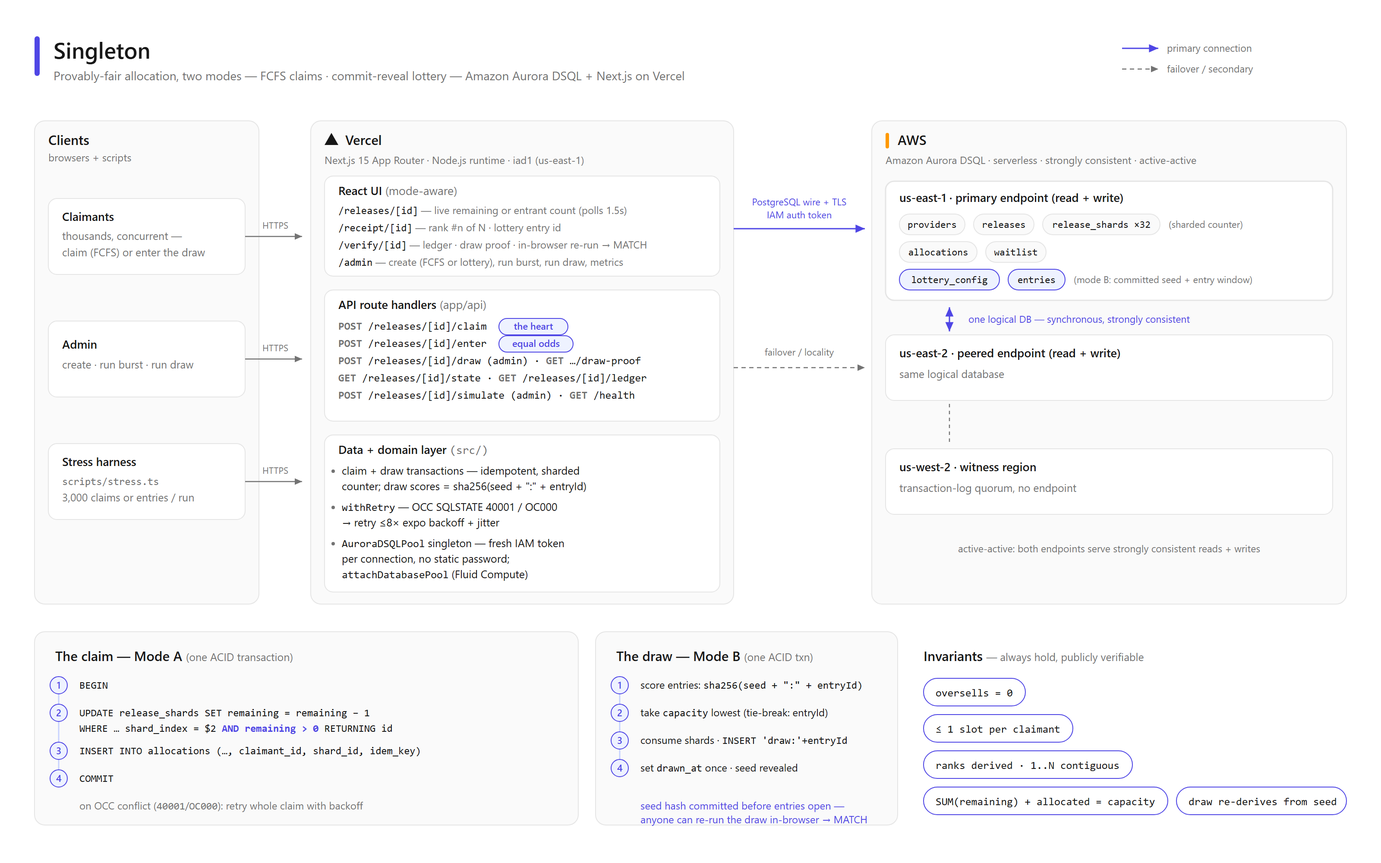
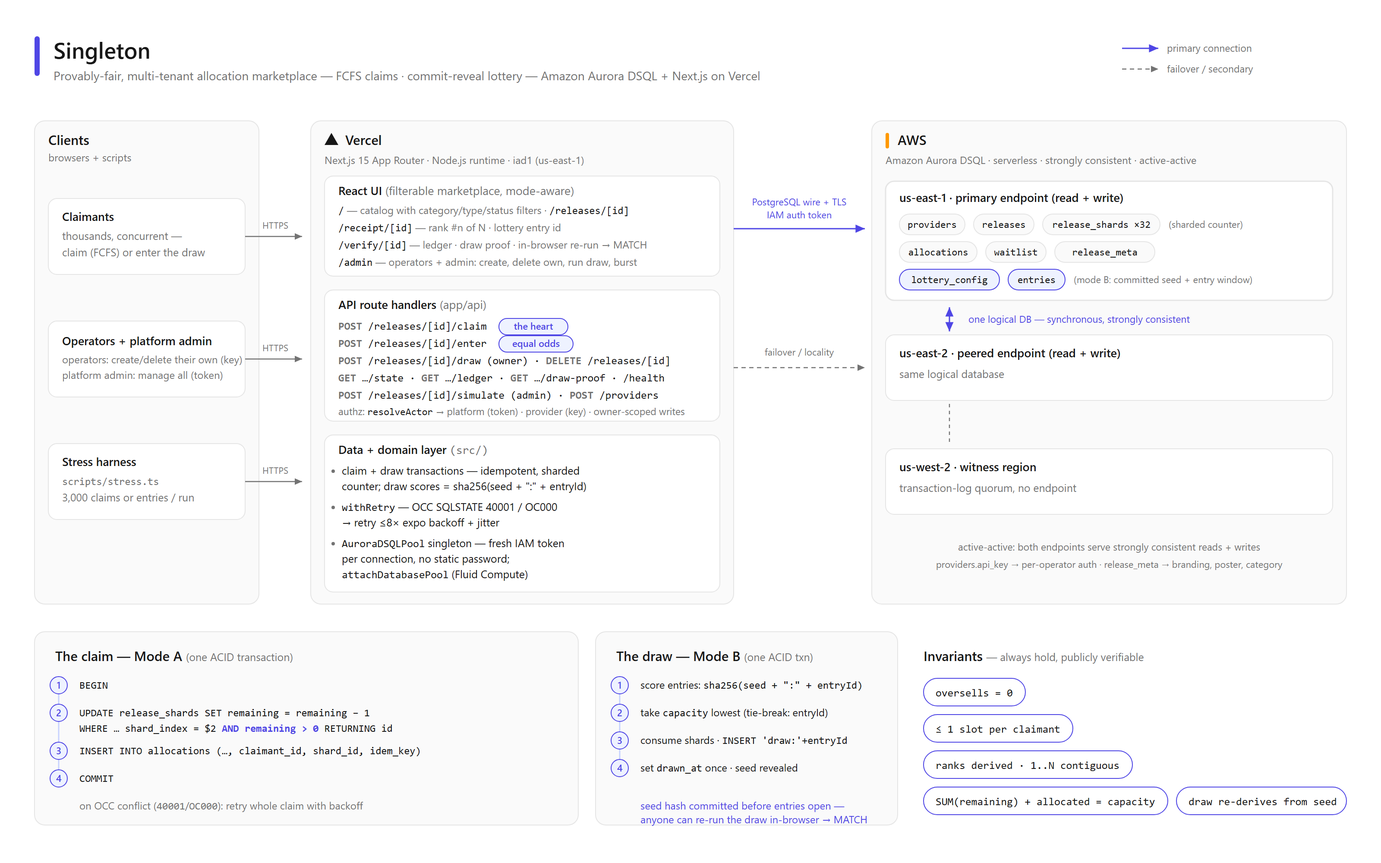
docs: update INTEL, submission, architecture diagram for multi-tenancy + marketplace
Refreshes the documentation to match the current product: a new INTEL chapter 15 (per-tenant ownership, the category marketplace, immersive release pages, 54-event showcase); updated API reference (two-role authz, DELETE + providers endpoints), data model (migrations 0005-0007, release_meta, providers.api_key), deployment (live Vercel URL, env, fragment magic link), and a third adversarial-review entry (token-in-URL, burst DoS). Architecture SVG/PNG regenerated to show operators vs platform admin, the filterable marketplace UI, the new endpoints, and release_meta. SUBMISSION checklist marks the Vercel link + diagram done and updates the video script; README migration list extended.

diff --git a/docs/INTEL.md b/docs/INTEL.md
@@ -27,7 +27,8 @@
 12. [Security, privacy, and the adversarial reviews](#12-security-privacy-and-the-adversarial-reviews)
 13. [Live verification results](#13-live-verification-results)
 14. [Build journey and decision log](#14-build-journey-and-decision-log)
-15. [Glossary](#15-glossary)
+15. [Multi-tenancy, the marketplace, and operator UX](#15-multi-tenancy-the-marketplace-and-operator-ux)
+16. [Glossary](#16-glossary)
 
 ---
 
@@ -41,7 +42,7 @@ Singleton allocates a **fixed batch of scarce slots** (clinic appointments, tick
 
 The defensible insight: **Amazon Aurora DSQL is strongly consistent, horizontally scalable, active-active multi-region, and serverless at once** — so each guarantee reduces to one ordinary ACID transaction (a sharded conditional decrement with optimistic-concurrency retry, or a single commit-reveal draw transaction). There is no Redis lock, no queue, no eventual-consistency reconciliation job, and no chain.
 
-None of this is asserted on faith. The repository carries a stress harness that fired **3,000 concurrent claims at a 200-slot release on the live cluster and proved zero oversells with contiguous ranks 1..200**, and **3,000 concurrent lottery entries whose 200 drawn winners re-derive byte-for-byte from the revealed seed**. Two multi-agent adversarial review passes hunted the concurrency- and secrecy-critical code and the ten real bugs they found are fixed and documented (§12).
+None of this is asserted on faith. The repository carries a stress harness that fired **10,000 concurrent claims at a 200-slot release on the live cluster and proved zero oversells with contiguous ranks 1..200**, and **5,000 concurrent lottery entries whose 200 drawn winners re-derive byte-for-byte from the revealed seed**. Three multi-agent adversarial review passes hunted the concurrency-, secrecy-, and authorization-critical code and the twelve real bugs they found are fixed and documented (§12). The app is multi-tenant (per-operator ownership, §15) and live on Vercel at **`https://singleton-six.vercel.app`**.
 
 ## 2. The problem and the product
 
@@ -96,6 +97,7 @@ src/domain/           # claim (Mode A heart), draw (Mode B heart), lottery hashi
 src/components/       # intake clients, lottery proof, admin, site chrome, v0/ surfaces
 src/lib/              # admin auth, browser sha256, cn()
 db/migrations/        # 0001 init · 0002 indexes · 0003 lottery · 0004 lottery indexes
+                      #   · 0005 release_meta · 0006 provider_keys · 0007 release_category
 scripts/              # migrate · seed · stress (both modes) · render-architecture · provision/*
 tests/                # unit · integration (live DSQL) · e2e (Playwright)
 docs/                 # this document, architecture diagram, submission checklist, v0 evidence
@@ -127,24 +129,25 @@ Two corrections the research pass made to the original build spec are worth nami
 
 ## 5. Data model — every table, every index, every constraint
 
-The entire schema is four SQL files totalling under 120 lines, applied by a custom runner that exists because Aurora DSQL's DDL rules make off-the-shelf migration tools (which wrap files in multi-statement transactions) unusable. Six tables serve FCFS mode plus bookkeeping; two more, added purely additively, serve the lottery. Every constraint that DSQL *can* enforce is pushed into the database; everything it cannot (foreign keys, sequences, triggers) is replaced by an explicit application-layer mechanism described below.
+The schema is seven additive SQL files totalling well under 200 lines, applied by a custom runner that exists because Aurora DSQL's DDL rules make off-the-shelf migration tools (which wrap files in multi-statement transactions) unusable. Six tables serve FCFS mode plus bookkeeping; two more serve the lottery; the later migrations add branding/category to a side table and an operator key to `providers` — **all strictly additive, never altering an existing column's meaning** (see §15 for the multi-tenancy and marketplace features they enable). Every constraint that DSQL *can* enforce is pushed into the database; everything it cannot (foreign keys, sequences, triggers) is replaced by an explicit application-layer mechanism described below.
 
 ### 5.1 Table inventory
 
 | Table | Created in | Role | Key invariant it anchors |
 |---|---|---|---|
 | `schema_migrations` | bootstrapped by [scripts/migrate.ts](../scripts/migrate.ts) | which migration files have run | idempotent re-runs |
-| `providers` | [0001](../db/migrations/0001_init.sql) | who publishes releases | — |
+| `providers` | [0001](../db/migrations/0001_init.sql) (+ `api_key` in [0006](../db/migrations/0006_provider_keys.sql)) | operators/tenants; `api_key` authenticates them | unique `api_key` (operator identity) |
 | `releases` | [0001](../db/migrations/0001_init.sql) | a drop: capacity, window, status | `capacity > 0`, status state machine |
 | `release_shards` | [0001](../db/migrations/0001_init.sql) | capacity split into N counter rows | `SUM(remaining)` = remaining capacity; `remaining >= 0` |
 | `allocations` | [0001](../db/migrations/0001_init.sql) | one row per granted slot | no oversell, one slot per claimant, retry safety |
 | `waitlist` | [0001](../db/migrations/0001_init.sql) | claimants who arrived after sell-out | one entry per claimant |
 | `lottery_config` | [0003](../db/migrations/0003_lottery.sql) | per-release commit-reveal state | seed committed before entries open; draw runs once |
 | `entries` | [0003](../db/migrations/0003_lottery.sql) | one row per lottery entrant | one entry per claimant |
+| `release_meta` | [0005](../db/migrations/0005_release_meta.sql) (+ `category` in [0007](../db/migrations/0007_release_category.sql)) | optional branding: poster, description, venue, event date, category | 1:1 with a release (app-enforced) |
 
 ### 5.2 Core tables
 
-**`providers`** — `id uuid PK`, `name`, `created_at`. Deliberately minimal: it exists so `releases.provider_id` has something real to point at and the demo seed has an owner. No auth model hangs off it.
+**`providers`** — `id uuid PK`, `name`, `created_at`, and (since [0006](../db/migrations/0006_provider_keys.sql)) a nullable, unique **`api_key`**. Originally a minimal owner record; the key turned it into the tenant identity for the multi-tenancy model (§15). Existing/seed providers have a `NULL` key (NULLs are distinct in a Postgres unique index, so many coexist) and are platform-owned demo data; an operator who self-registers through `/api/providers` gets a real `op_…` key that authenticates them as a tenant.
 
 **`releases`** — the central entity:
 
@@ -522,32 +525,34 @@ Error envelope conventions: validation failures are `400 { error, issues? }`; st
 | Method | Path | Auth | Purpose |
 |---|---|---|---|
 | GET | `/api/health` | public | DB liveness probe (`SELECT 1`, `now()`), multi-region flag |
-| GET | `/api/releases` | public | List releases with live state |
-| POST | `/api/releases` | admin | Create a release (FCFS, or lottery if `lottery` present) |
+| GET | `/api/releases` | public | List releases with live state (incl. `providerId`, category) |
+| POST | `/api/releases` | platform / operator | Create a release (owned by the operator, or the named provider for platform) |
+| DELETE | `/api/releases/[id]` | platform / owner | Delete a release + all child rows (batched cascade) ([route](../app/api/releases/%5Bid%5D/route.ts)) |
 | POST | `/api/releases/[id]/claim` | public | Mode A: claim a slot (idempotent) |
 | GET | `/api/releases/[id]/state` | public | Live counts + mode + lottery commitment |
 | GET | `/api/releases/[id]/ledger` | public | Anonymized allocation ledger with derived ranks |
-| POST | `/api/releases/[id]/simulate` | admin | In-process concurrent claim burst + invariant audit |
+| POST | `/api/releases/[id]/simulate` | platform | In-process concurrent claim burst + invariant audit (platform-only; see §12) |
 | POST | `/api/releases/[id]/enter` | public | Mode B: enter the draw window (idempotent) |
-| POST | `/api/releases/[id]/draw` | admin | Mode B: run the commit-reveal draw (idempotent) |
+| POST | `/api/releases/[id]/draw` | platform / owner | Mode B: run the commit-reveal draw (idempotent) |
 | GET | `/api/releases/[id]/draw-proof` | public | Verifiable proof payload; seed only post-draw |
 | GET | `/api/entries/[entryId]` | public* | Mode B: check one's own result by entry id |
 | GET | `/api/allocations/[id]` | public* | Receipt payload: release, capacity, derived rank, lottery entry id if drawn ([route](../app/api/allocations/%5Bid%5D/route.ts)) |
+| POST | `/api/providers` | public | Self-serve operator registration; returns the api key **once** ([route](../app/api/providers/route.ts)) |
+| POST | `/api/providers/session` | operator | Resolve an operator key to its provider identity (cross-device sign-in) ([route](../app/api/providers/session/route.ts)) |
 
 \* `entryId` / allocation `id` act as bearer capabilities — each was returned only to its owner and is never published alongside an identity (the public ledger carries allocation ids only with timestamps and ranks, no claimants).
 
-### Admin authentication
+### Authentication and authorization (two roles)
 
-Admin routes (`POST /api/releases`, `simulate`, `draw`) call `isAdminRequest` from [src/lib/admin.ts](../src/lib/admin.ts), which reads the `x-admin-token` header and compares it against `ADMIN_TOKEN` in constant time:
+Singleton is multi-tenant (§15). Every mutating request is resolved to an **actor** by `resolveActor` in [src/lib/admin.ts](../src/lib/admin.ts):
 
-```ts
-const a = Buffer.from(token);
-const b = Buffer.from(expected);
-if (a.length !== b.length) return false;
-return timingSafeEqual(a, b);
-```
+- **platform** — the request carries the master `ADMIN_TOKEN` in the `x-admin-token` header (constant-time compared via `timingSafeEqual`, with the standard length-leak trade-off). A super-admin over every release; this is what the hackathon judges use.
+- **provider** — the request carries an operator key in the `x-provider-key` header that matches a `providers.api_key` row (looked up via the unique index, then constant-time re-compared). Scoped to the releases that operator owns.
+- **none** — neither matches → `401 { "error": "unauthorized" }` before any body parsing.
 
-The length check is required — `timingSafeEqual` throws on unequal lengths — and leaking the token's *length* is an accepted, standard trade-off. The token itself lives in the environment (`ADMIN_TOKEN`), validated lazily by the memoized Zod schema in [src/env.ts](../src/env.ts) (`z.string().min(1)`); lazy validation means `next build` succeeds on a machine without secrets, while the first real request fails fast with a readable error. A missing or wrong token yields `401 { "error": "unauthorized" }` before any body parsing.
+Platform is checked first and short-circuits, so the master token never depends on a database lookup. Release-scoped mutations (delete, draw, burst) go through `authorizeReleaseMutation(req, releaseId)`, which resolves the actor, loads the release (404 if absent), and enforces ownership: **platform may act on any release; a provider only on one it owns (else 403)**. The burst simulator is deliberately restricted to platform only — it is a stress/demo amplifier, and leaving it open to self-registered operator keys would be a write-amplification vector on the metered cluster (§12).
+
+Secrets are validated lazily by the memoized Zod schema in [src/env.ts](../src/env.ts), so `next build` succeeds without them while the first real request fails fast. The platform magic link delivers the token in the URL **fragment** (`/admin#token=…`), which browsers never send to the server, keeping it out of access logs and `Referer` headers (§12).
 
 ### GET /api/health
 
@@ -733,7 +738,8 @@ export default async function ReleasePage({ params }: { params: Promise<{ id: st
 
 | Route | File | Server renders | Client takes over |
 |---|---|---|---|
-| `/` | [app/page.tsx](../app/page.tsx) | Hero, principles, live-release grid (up to 12 release states fetched in parallel; DB errors degrade to a setup hint, not a crash) | Nothing — fully static per request |
+| `/` | [app/page.tsx](../app/page.tsx) | Hero, principles, and the release set (up to 100, fetched in two batched round trips; DB errors degrade to a setup hint, not a crash) | `ReleasesBrowser` — the marketplace filter rail + sort + grid, all client-side over the fetched set (§15.2) |
+| `/admin` (operator) | [admin-auth.tsx](../src/components/admin/admin-auth.tsx) | — | Operator self-registration + key, or platform/operator sign-in (`AuthGate`); credential drives every admin request (§15.1) |
 | `/releases/[id]` | [app/releases/[id]/page.tsx](<../app/releases/[id]/page.tsx>) | Card shell, title, capacity copy; branches on `state.mode` | `IntakeClient` (FCFS) or `LotteryIntakeClient` (lottery), seeded with the server-fetched state as `initial` |
 | `/receipt/[allocationId]` | [app/receipt/[allocationId]/page.tsx](<../app/receipt/[allocationId]/page.tsx>) | Entire receipt: rank, capacity, timestamp via `getAllocationWithRank`; an extra "selected from the window" panel when `lotteryEntryId` is present | Nothing — a receipt is a fact, not a live view |
 | `/verify/[releaseId]` | [app/verify/[releaseId]/page.tsx](<../app/verify/[releaseId]/page.tsx>) | Ledger table, capacity-check banner, mode detection | `LotteryProof` (lottery releases only) — verification must run in the visitor's browser to mean anything |
@@ -997,6 +1003,8 @@ The entire deployment configuration is small enough to reason about line by line
 
 Version pins follow the same philosophy as the connection design: [package.json](../package.json) locks Next.js at `15.5.19` (spec-locked even though 16 is current), the pre-1.0 DSQL connector at exactly `0.1.9`, and the two AWS SDK packages (`@aws-sdk/dsql-signer`, `@aws-sdk/credential-providers`) at matching `3.1064.0` — in a system whose core claim is determinism, an unreviewed minor bump in the auth path is not an acceptable variable.
 
+**Live deployment.** The app runs on Vercel at **`https://singleton-six.vercel.app`** — use that clean production alias, not a `*-<hash>.vercel.app` deployment URL, since per-deployment URLs sit behind Vercel's Deployment Protection and return 401 to anyone but the owner. Six environment variables are set in the Vercel project: `AWS_REGION`, `DSQL_CLUSTER_ENDPOINT`, `CLUSTER_USER`, `ADMIN_TOKEN`, and — critically — `AWS_ACCESS_KEY_ID` / `AWS_SECRET_ACCESS_KEY`. Those last two are intentionally absent from local `.env.local` (local dev resolves credentials from the `aws configure` shared profile), but Vercel has no profile, so the static IAM keys for the `singleton-dsq` user must be set explicitly or every DB call fails IAM auth. Local and production share the one DSQL cluster, so `npm run migrate` from a laptop also migrates production. Push-to-`main` auto-deploys; the additive migrations (0005–0007) were applied to the shared cluster ahead of the code that reads them, so each deploy lands on a schema that already has its columns.
+
 ---
 
 ## 11. Testing, verification, and operations
@@ -1191,14 +1199,14 @@ Script-level knobs not in `.env.example`: `DB_POOL_MAX` (pool size — defaulted
 ### 12.1 The standing rules
 
 - **No database password exists.** All DSQL access is IAM-authenticated: short-lived signed tokens, minted per connection by the official connector, scoped by a least-privilege policy ([scripts/provision/iam-policy.json](../scripts/provision/iam-policy.json)) that can touch DSQL and nothing else. Leaked app credentials cannot reach any other AWS service.
-- **Admin actions** (create release, simulate burst, run draw) require the `x-admin-token` header, compared in **constant time** (`timingSafeEqual`, [src/lib/admin.ts](../src/lib/admin.ts)) against `ADMIN_TOKEN`.
+- **Two authenticated roles** (§8, §15): a *platform* super-admin holding `ADMIN_TOKEN` (constant-time compared via `timingSafeEqual`, [src/lib/admin.ts](../src/lib/admin.ts)) and per-tenant *operators* holding a unique `providers.api_key`. Release-scoped mutations (delete, draw, burst) run through `authorizeReleaseMutation`, which enforces that an operator can act only on releases it owns; the burst simulator is platform-only.
 - **The lottery seed is secret until the draw.** Only `seed_hash` is ever serialized pre-draw; the seed column is read by exactly one internal accessor, no log line or error message embeds it, and the draw-proof endpoint nulls it until `drawn_at` is set.
 - **Participant identity never enters public payloads.** Draw proofs and the public ledger identify entries/allocations by opaque UUIDs only; `claimant_id` (often an email) is reachable only by admin-side code paths.
 - **Every write path is idempotent**, so retries — human, client, or network — cannot double-allocate, double-enter, or double-draw.
 
-### 12.2 The ten bugs the adversarial reviews caught
+### 12.2 The twelve bugs the adversarial reviews caught
 
-Twice during the build — after the Mode A core and after Mode B — a multi-agent adversarial review (parallel reviewers per dimension, each finding independently re-verified by a skeptic agent before being accepted) attacked the concurrency- and secrecy-critical code. **All ten confirmed findings were real, and all are fixed:**
+Three times during the build — after the Mode A core, after Mode B, and after the multi-tenancy work — a multi-agent adversarial review (parallel reviewers per dimension, each finding independently re-verified by a skeptic agent before being accepted) attacked the concurrency-, secrecy-, and authorization-critical code. **All twelve confirmed findings were real, and all are fixed.** The first two reviews caught these ten:
 
 | # | Severity | Finding | Fix |
 |---|---|---|---|
@@ -1213,7 +1221,14 @@ Twice during the build — after the Mode A core and after Mode B — a multi-ag
 | 9 | High | Missing rowcount guard on the release-close update inside the draw | throws loudly on mismatch |
 | 10 | High | Post-draw result fetch in the lottery UI stuck permanently after one HTTP error | retries every poll tick ([lottery-intake-client.tsx](../src/components/lottery-intake-client.tsx)) |
 
-The honest meta-lesson: even with the invariants designed in from the start, the gap between "the algorithm is right" and "every path around the algorithm is right" produced ten real defects — and structured adversarial review with mandatory re-verification (several plausible-sounding findings were *rejected* as not-bugs) caught them before any user could.
+A **third adversarial review**, run when the multi-tenancy authorization shipped (§15), confirmed two more — both fixed before that feature was pushed:
+
+| # | Severity | Finding | Fix |
+|---|---|---|---|
+| 11 | High | Master `ADMIN_TOKEN` rode the magic link as a **query parameter** (`/admin?token=…`), so it could land in server/CDN access logs and `Referer` headers before the client-side scrub ran | the token now travels in the URL **fragment** (`/admin#token=…`), which browsers never send to the server, plus a `Referrer-Policy: no-referrer` header on `/admin` ([admin-auth.tsx](../src/components/admin/admin-auth.tsx), [next.config.ts](../next.config.ts)) |
+| 12 | Medium | Open self-serve registration + an owner-runnable burst (up to 2,000×100 claims) was a **write-amplification DoS** vector on the metered cluster | the burst simulator is restricted to the platform role; operators keep create/delete/draw on their own releases ([simulate route](../app/api/releases/%5Bid%5D/simulate/route.ts), [src/lib/admin.ts](../src/lib/admin.ts)) |
+
+The honest meta-lesson: even with the invariants designed in from the start, the gap between "the algorithm is right" and "every path around the algorithm is right" produced twelve real defects across three reviews — and structured adversarial review with mandatory re-verification (several plausible-sounding findings were *rejected* as not-bugs) caught them before any user could.
 
 ### 12.3 Deliberately out of scope
 
@@ -1243,6 +1258,16 @@ Everything below ran against the **live Aurora DSQL cluster** in us-east-1 (no l
 
 **Latency anatomy worth understanding:** a sold-out FCFS claim originally walked all shards blind — ~48 WAN round trips ≈ 12 s from the test machine. The candidate-prefilter optimization (one `SELECT` of non-empty shards; correctness still rests entirely on the conditional `UPDATE`) collapsed that to one round trip. From Vercel `iad1`, every round trip is ~1–2 ms — the same operations run two orders of magnitude faster in production placement. The in-UI burst (admin → Run burst) executes server-side in-region for exactly this reason.
 
+**Later additions — multi-tenancy, marketplace, deployment:**
+
+| Check | Result |
+|---|---|
+| Heavier FCFS stress | **10,000 concurrent claims vs capacity 200** → exactly 200 allocated · 0 oversells · ranks 1..200 contiguous · 0 errors |
+| Heavier lottery stress | **5,000 entries** → 0 duplicates · 200 winners re-derived byte-for-byte |
+| Ownership authorization (HTTP + browser) | operator deletes own → 200; another operator's → **403**; unauthenticated → **401**; platform → any. 4 dedicated integration tests + live HTTP and Playwright matrices |
+| Live deployment | `https://singleton-six.vercel.app` — `/api/health` 200 with `db.ok`; full claim → receipt → ledger exercised from outside the owner's session |
+| Marketplace | 54 curated releases (six per category) with 4K posters — all 54 images verified loading in-browser; every category filters to exactly 6 |
+
 ## 14. Build journey and decision log
 
 The build followed a research-first discipline: before any code, an 11-agent research pass verified every stack assumption against current official AWS/Vercel/Next.js documentation, with the riskiest claims adversarially fact-checked. That pass is why this codebase never hit the classic DSQL landmines (CHECK folklore, token caching, multi-statement migrations).
@@ -1268,9 +1293,34 @@ The build followed a research-first discipline: before any code, an 11-agent res
 - *A `git reset --hard` with uncommitted work destroyed two files mid-history-build* — reconstructed and re-verified, but the lesson (stash or commit first) is now policy.
 - *First cluster in an account needs `iam:CreateServiceLinkedRole`* — scoped to `dsql.amazonaws.com` in the provisioning policy; the error message doesn't tell you that.
 
-**Evidence of work:** the repository history is six `--no-ff` feature merges (foundation → DSQL core → v0 surfaces → lottery → product UI → docs), all dated within the hackathon submission period, with this document and the diagram updates following the same pattern.
+**Evidence of work:** the early history is six `--no-ff` feature merges (foundation → DSQL core → v0 surfaces → lottery → product UI → docs); the later product arc continues in focused commits on `main` — the Counterfoil redesign, em-dash copy sweep, per-tenant ownership (+ adversarial review fixes), the category marketplace and 54-event showcase, immersive release pages, and these doc/diagram updates — all dated within the hackathon submission period.
 
-## 15. Glossary
+## 15. Multi-tenancy, the marketplace, and operator UX
+
+The original build was a single-operator console behind one shared token. Three additive migrations (0005–0007) plus a client rebuild turned it into a multi-tenant marketplace, with **zero change to the Mode A / Mode B allocation paths** — the additive-only discipline from the lottery work held again.
+
+### 15.1 Per-tenant ownership
+
+A *provider* is now a tenant. [0006_provider_keys.sql](../db/migrations/0006_provider_keys.sql) adds a nullable, uniquely-indexed `providers.api_key`; [src/db/providers.ts](../src/db/providers.ts) mints `op_`-prefixed keys (`createProviderWithKey`) and resolves them (`getProviderByKey`, constant-time compared). Two roles result, both handled by `resolveActor` / `authorizeReleaseMutation` in [src/lib/admin.ts](../src/lib/admin.ts) (see §8):
+
+- **Platform** — holds `ADMIN_TOKEN`; super-admin over every release. The hackathon judges use this via the `/admin#token=…` magic link.
+- **Operator** — holds an `api_key`; may create releases (owned by them) and delete or run the draw on **only their own** (403 otherwise). The burst simulator stays platform-only (§12).
+
+The check is server-enforced; the UI's choice to *show* a delete control is convenience only. `createRelease` stamps `provider_id` from the authenticated operator, so a tenant cannot create under another's identity. Cascade delete ([`deleteRelease`](../src/db/releases.ts)) removes a release plus its allocations, waitlist, entries, shards, meta, and lottery config in batches under DSQL's 3,000-row transaction cap.
+
+Operators self-register at `POST /api/providers` (returns the key **once**; the panel offers copy and a CSV download, mirroring a cloud access-key file) and re-authenticate on another device via `POST /api/providers/session`. The admin console ([app/admin/page.tsx](../app/admin/page.tsx), [admin-auth.tsx](../src/components/admin/admin-auth.tsx)) gates on a credential object (`{ kind: "platform" | "provider", … }`) and attaches either `x-admin-token` or `x-provider-key` per request.
+
+### 15.2 The category marketplace
+
+[0007_release_category.sql](../db/migrations/0007_release_category.sql) adds a nullable `release_meta.category` (a slug from the nine-item taxonomy in [src/lib/categories.ts](../src/lib/categories.ts)); the admin create form gains a selector. The landing "Live releases" section is now a marketplace ([src/components/releases-browser.tsx](../src/components/releases-browser.tsx)): a left filter rail (search, category, allocation type, availability, date window, location) plus a sort control (newest, closing soon, most/fewest spots) and a live result count. Filtering is entirely client-side over the full release set (the listing cap rose to 100), so it is instant and adds zero database load. Most filters run on data that already existed (mode, status, venue, dates, title); only category needed the new column.
+
+### 15.3 Immersive release pages and the showcase
+
+A release with a poster now renders it as a vignetted, full-bleed page background behind a translucent glass card (the card's `backdrop-blur` over the photo creates depth; the in-card "Back to all releases" link stays legible over any image). The receipt ledger shows the **full** receipt id (it had been truncated to eight characters) — matching your receipt against the public list is the whole point. A proper logo ([src/components/logo.tsx](../src/components/logo.tsx), favicon [app/icon.svg](../app/icon.svg)) replaced the placeholder mark.
+
+The demo seed ([scripts/seed-showcase.ts](../scripts/seed-showcase.ts), data in [scripts/showcase-events.json](../scripts/showcase-events.json)) is **54 curated releases — six per category** — with modern copy and verified 4K posters, seeded with organic activity through the real domain paths so the marketplace reads as live rather than freshly installed. The posters were curated and image-verified out of band by a nine-way parallel agent pass that fetched, viewed, and trademark-screened each candidate; the seed then re-checks every URL serves `image/*` before writing. Test-data hygiene is automatic: a Playwright global teardown sweeps `E2E …` releases after every run, and the cleanup CLI derives the showcase titles straight from the JSON so a reset stays exhaustive.
+
+## 16. Glossary
 
 | Term | Meaning here |
 |---|---|

diff --git a/docs/SUBMISSION.md b/docs/SUBMISSION.md
@@ -4,9 +4,14 @@
 retail drops; providers pay per release / SaaS seat). Also competes for **Best Technical
 Implementation**.
 
+> **Live:** https://singleton-six.vercel.app
+>
 > Two allocation modes, both provable on Aurora DSQL: **Mode A** (first-come, sharded atomic
 > claims, live no-oversell dashboard) and **Mode B** (windowed lottery with a commit-reveal
 > draw — the verify page re-runs the entire draw in the visitor's browser and shows MATCH).
+> It is a **multi-tenant marketplace**: operators self-register and manage only their own
+> releases (server-enforced ownership), browsable through a category filter rail over a
+> 54-event, six-per-category showcase.
 > Video beat: enter the window → draw → click "Re-run the draw" → MATCH banner.
 
 ## Required items
@@ -16,14 +21,17 @@ Implementation**.
       transaction because DSQL is strongly consistent + active-active + serverless.
 - [ ] **Demo video < 3 min** (YouTube, public). Script beats:
       1. (0:00–0:25) Problem: oversold appointments / crashed ticket drops; who it's for.
-      2. (0:25–1:10) Live flow: intake countdown → claim → receipt "#n of N" → public ledger.
-      3. (1:10–2:10) The proof: admin "Run burst" → **oversells: 0**, ranks 1..N, latency +
-         OCC retries on screen; mention `npm run stress` 3,000 vs 200.
-      4. (2:10–2:45) Why Aurora DSQL: sharded counter + OCC retry diagram beat; (if built)
-         two regions, one consistent database.
-      5. (2:45–3:00) Monetization one-liner + close.
-- [ ] **Published Vercel project link** + **Vercel Team ID** (Team settings → copy ID).
-- [ ] **Architecture diagram** — `docs/architecture.png` (source `docs/architecture.svg`).
+      2. (0:25–0:55) The marketplace: category filter rail; pick a release (4K poster page).
+      3. (0:55–1:30) Live flow: claim → receipt "#n of N" + QR → public ledger (full receipt id).
+      4. (1:30–2:10) The proof: admin "Run burst" → **oversells: 0**, ranks 1..N, OCC retries
+         on screen; mention `npm run stress` **10,000 vs 200, 0 oversells**.
+      5. (2:10–2:35) Multi-tenant B2B: an operator self-registers, creates a release, can delete
+         only their own; lottery "Re-run the draw" → MATCH.
+      6. (2:35–3:00) Why Aurora DSQL (sharded counter + OCC, one ACID transaction) + monetization close.
+- [x] **Published Vercel project link** — https://singleton-six.vercel.app (public, verified).
+- [ ] **Vercel Team ID** — Team settings → General → copy ID (paste into the form).
+- [x] **Architecture diagram** — `docs/architecture.png` (source `docs/architecture.svg`); updated
+      for multi-tenancy + the marketplace.
 - [ ] **Screenshot: storage configuration proving AWS Database usage** — Vercel project
       → Settings → Environment Variables showing `DSQL_CLUSTER_ENDPOINT` / `AWS_REGION`
       (values hidden is fine), plus AWS console cluster page as backup.
@@ -33,7 +41,7 @@ Implementation**.
 - [ ] **Published content piece** with the required disclosure ("created for the purposes of
       entering this hackathon") + **#H0Hackathon** when shared. Draft title: *"How I built
       provably-fair, no-oversell allocation on Aurora DSQL (OCC retries, sharded counters,
-      and a 3,000-claim stress test)"* — publish on builder.aws.com or dev.to.
+      and a 10,000-claim stress test)"* — publish on builder.aws.com or dev.to.
 
 ## v0 evidence (the "Zero Stack" story)
 
@@ -88,7 +96,8 @@ entire judging period.
 
 ## Pre-submit verification
 
-- [ ] `npm run stress -- --attempts 3000 --capacity 200 --shardCount 32` → exit 0, oversells 0.
+- [ ] `npm run stress -- --attempts 10000 --capacity 200 --shardCount 32` → exit 0, oversells 0.
 - [ ] `npm run test` + `npm run test:e2e` green against the live cluster.
-- [ ] Deployed flow smoke-tested: claim → receipt → verify on the Vercel URL.
-- [ ] `/api/health` returns ok on production.
+- [x] Deployed flow smoke-tested: claim → receipt → verify on https://singleton-six.vercel.app.
+- [x] `/api/health` returns ok on production.
+- [ ] Reset showcase before recording: `npx tsx scripts/cleanup-test-data.ts && npx tsx scripts/seed-showcase.ts` (54 events, six per category).

diff --git a/README.md b/README.md
@@ -237,7 +237,8 @@ src/
   domain/                # claim (the heart), draw (the lottery), rank, shards, lottery hashing
   components/            # shadcn/ui-based UI (intake, lottery, admin, v0 surfaces)
   env.ts                 # Zod-validated env (lazy)
-db/migrations/           # 0001_init, 0002_indexes, 0003_lottery, 0004_lottery_indexes
+db/migrations/           # 0001_init · 0002_indexes · 0003_lottery · 0004_lottery_indexes
+                         #   · 0005_release_meta · 0006_provider_keys · 0007_release_category
 scripts/                 # migrate · seed · stress (fcfs + lottery) · provision/*
 tests/                   # unit · integration (real DSQL) · e2e (Playwright)
 ```
